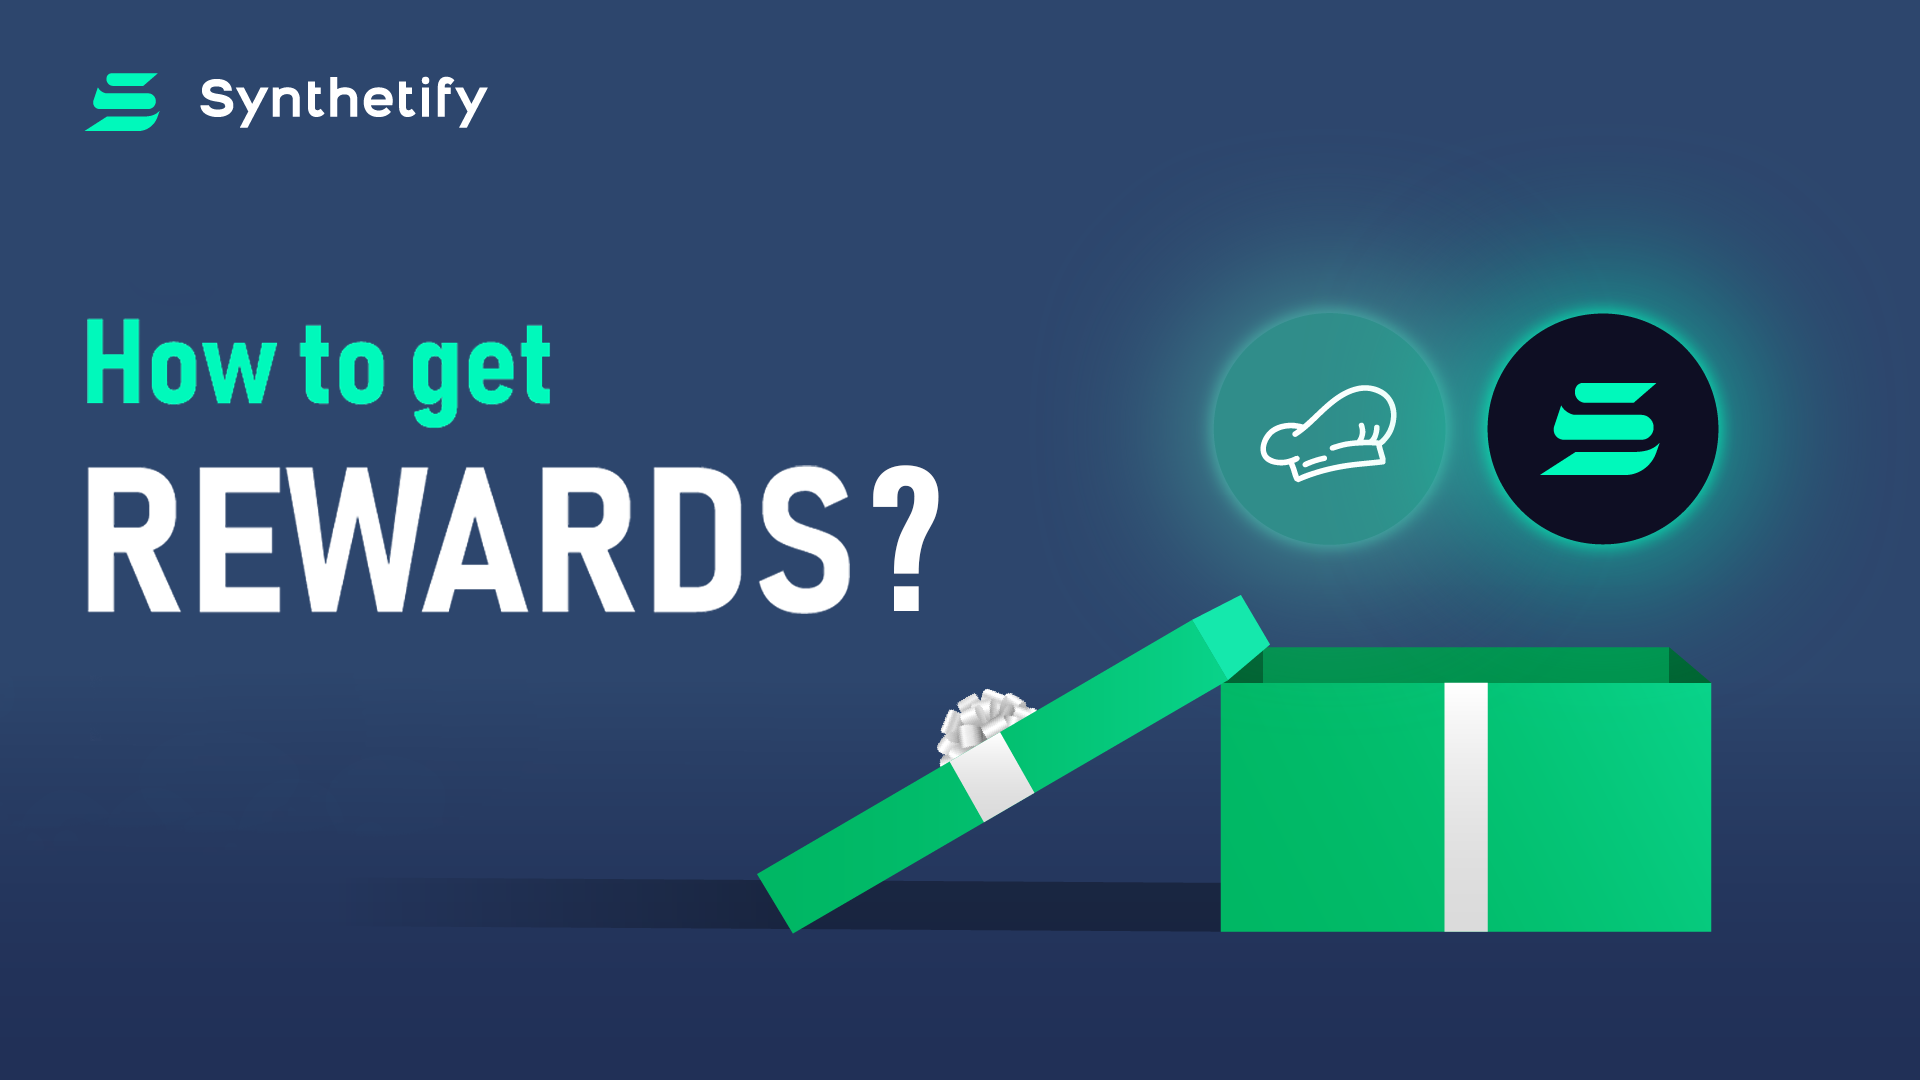
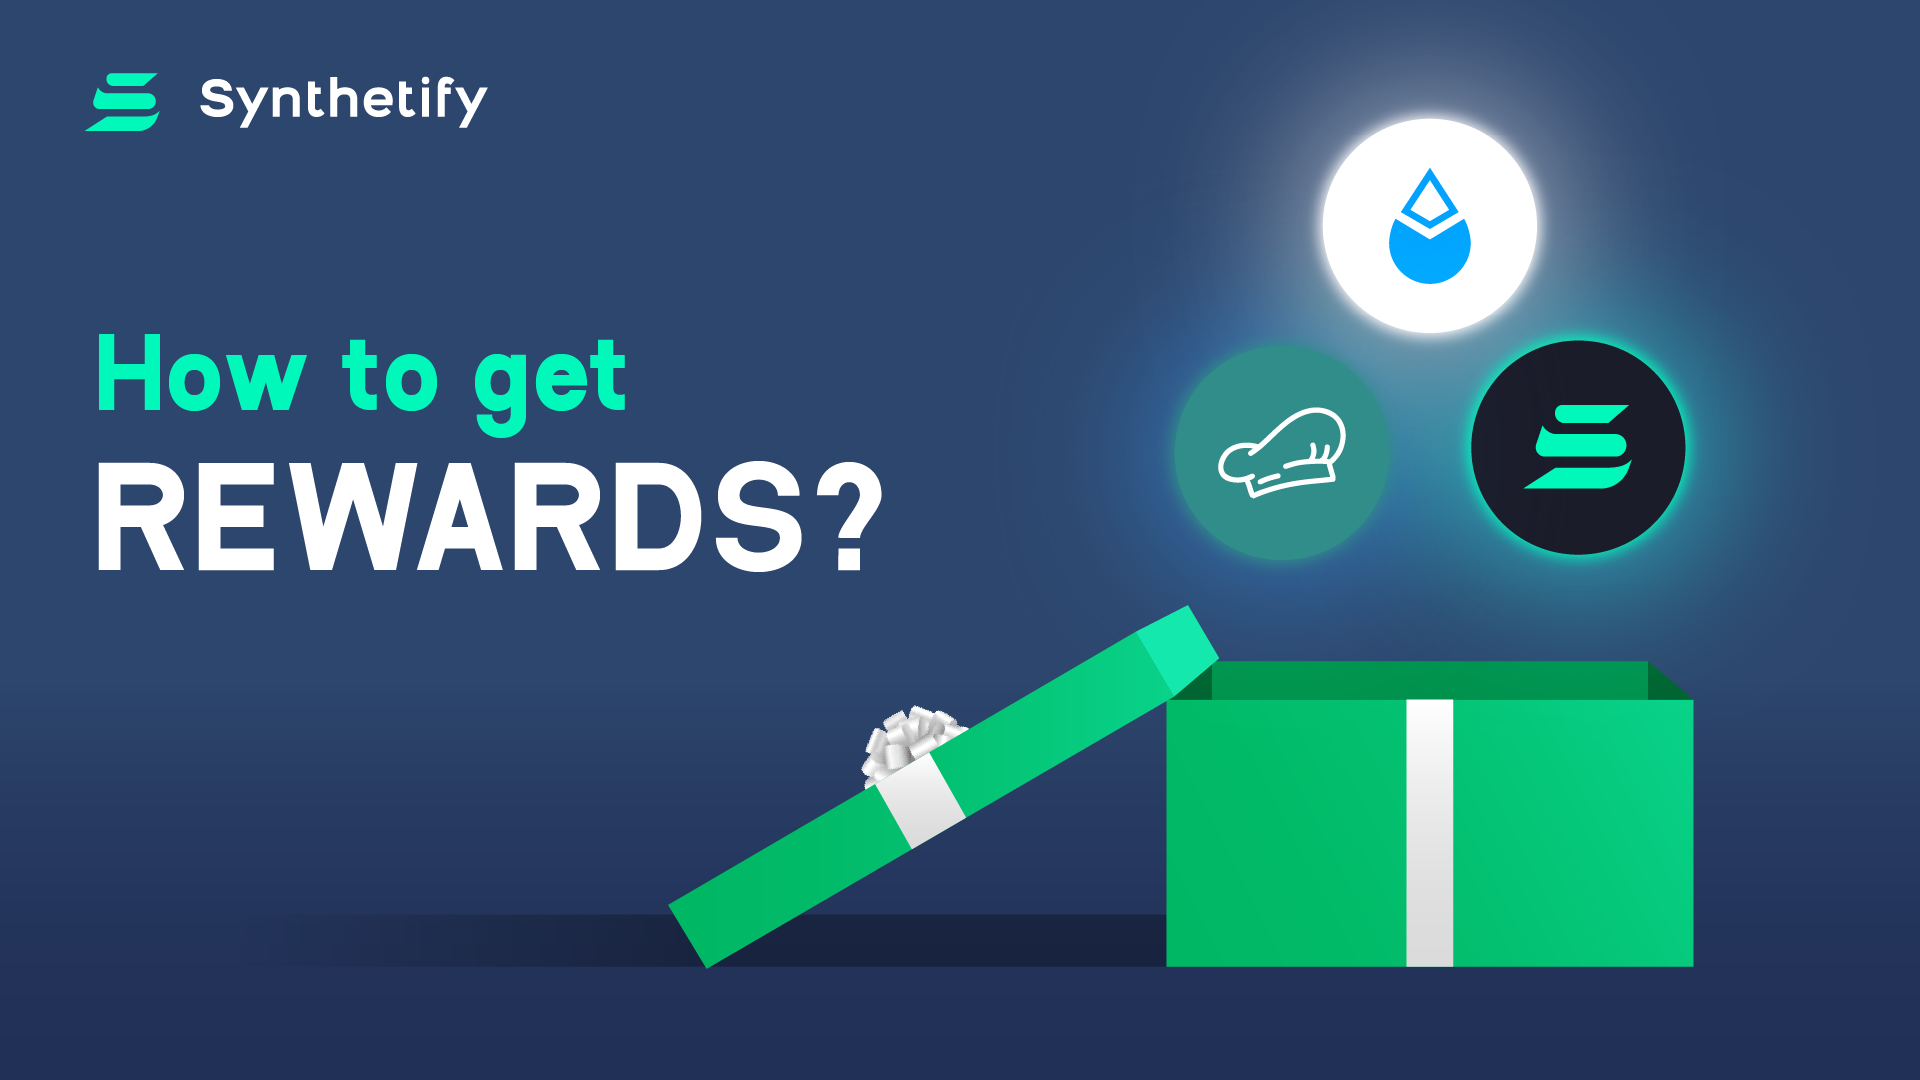
init

diff --git a/src/blogPosts/marinade-gauges.md b/src/blogPosts/marinade-gauges.md
@@ -1,0 +1,33 @@
+---
+title: 'Marinade Liquidity Mining Gauges'
+date: '2022-06-11 12:00:00'
+description: 'In this post we will introduce you to our friends feature - Liquidity Mining Gauges'
+image: '/blog/marinade-gauges/1.png'
+---
+
+![Bug bounty](/blog/marinade-gauges/1.png 'horizontal')
+
+Our friends - **Marinade**, recently launched Liquidity Mining Gauges. In this post, we will introduce to you, what is it, what is the benefits, and how to participate in it.
+
+## What is Marinade
+
+Marinade Finance is a non-custodial liquid staking protocol built on Solana.  
+You can stake your SOL tokens with Marinade using automated staking strategies and receive "marinated SOL" tokens (mSOL) that you can use in decentralized finance (DeFi).
+The price of mSOL goes up relative to SOL each epoch with rewards being accrued into the underlying staked SOL.
+
+## What is a gauge?
+
+A gauge is a governance mechanism allowing you to use your voting power to allocate your share of governance where you desire in a specific way.  
+For example, let's imagine that there are only 1000 locked MNDE used in the Validators gauges, and those MNDE control the delegation of 2M SOL. If you own 10 locked MNDE in the gauges, you could allocate 1% (or 20,000 SOL) to the validator of your choice.
+
+## How to vote?
+
+1. Lock your MNDE tokens on [Marinade](https://marinade.finance/app/mnde/) and receive your Chef NFT. The more tokens you are locking, the better NFT you can get. Once you have acquired your Marinade NFT, you will be able to actively participate in Marinade governance.
+2. Connect your wallet that contains at least one NFT Chef to [Tribeca](https://tribeca.so/gov/mnde/nftgauges/validator).
+3. Click on 'Validators Gauges'. The gauges page will open.
+4. Click on 'Cast votes' and look for the validator(s) you want to support.
+5. You will be able to split your voting power in the way you desire, by using the 'weight' field for each validator of your choice.You can delegate your total voting power to one validator, or choose up to 5 validators.
+6. Click on the 'Update weights' button and then on the 'Execute all' button to send the necessary transactions to cast your votes to the blockchain.
+7. Your votes are now registered and will influence the score of the validators over the next epochs.
+
+**[Vote for us now](https://tribeca.so/gov/mnde/nftgauges/validator) to get higher APY from our platform!**

diff --git a/src/blogPosts/debtpool-explanation.md b/src/blogPosts/debtpool-explanation.md
@@ -1,6 +1,6 @@
 ---
 title: 'Debt pool explanation'
-date: '2022-06-14 12:00:00'
+date: '2022-06-10 12:00:00'
 description: 'Everything you need to know about the debt pool'
 image: '/blog/debt/1.png'
 ---
